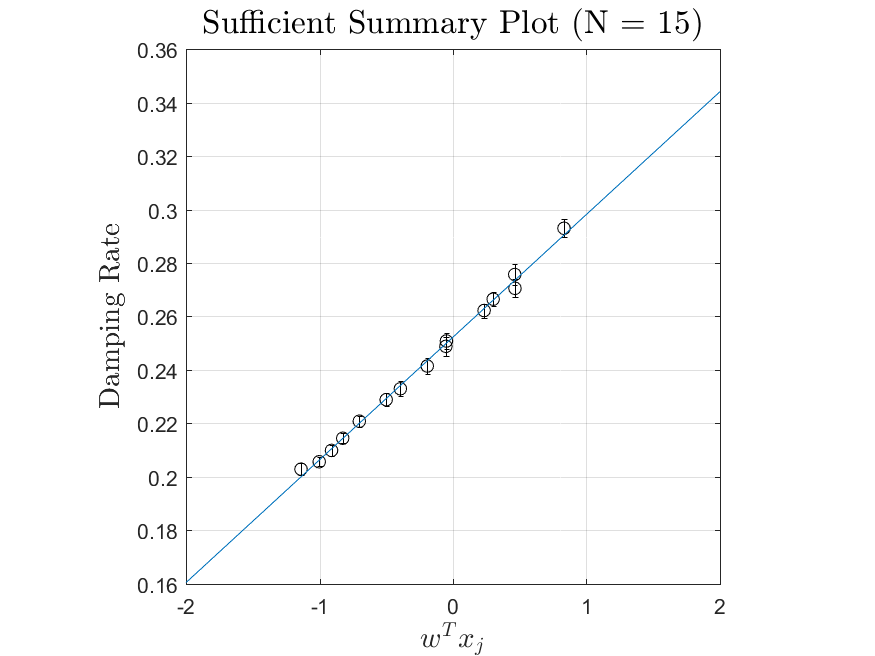
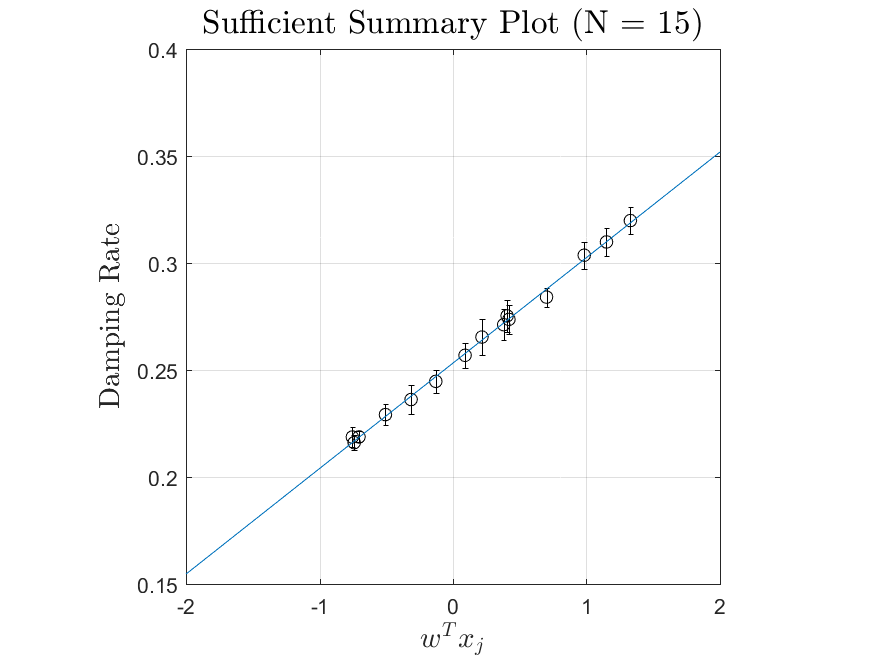
Updated Two-Stream FDG results.

diff --git a/+Sensitivity/FD_Gradient.m b/+Sensitivity/FD_Gradient.m
@@ -90,6 +90,7 @@ function [evalues, U, output, outputplus, Xs, graddamp, sdev, Atrials] = Active_
         
         output(jj) = mean(out);
         sdev(1, jj) = std(out)/sqrt(Atrials(1, jj));
+		clear out;
         
         for kk = 1:Nparams
             % Perturb the previously selected parameters by h
@@ -105,6 +106,7 @@ function [evalues, U, output, outputplus, Xs, graddamp, sdev, Atrials] = Active_
             
             outputplus(kk, jj) = mean(outplus);
             sdev(kk+1, jj) = std(outplus)/sqrt(Atrials(kk+1, jj));
+			clear outplus;
         end
         % Store the FD results in the gradient matrix
         graddamp(:, jj) = (outputplus(:,jj) - output(jj))/h;

diff --git a/Two_Stream_No_Variance/Two_Stream_No_Variance_FDG.m b/Two_Stream_No_Variance/Two_Stream_No_Variance_FDG.m
@@ -14,13 +14,13 @@ max_vals = (1+alpha)*params;
 min_vals = (1-alpha)*params;
 
 DT = 0.01;
-NT = 20/DT+1;
-NG = 32;
-N = 1e3;
+NT = 70/DT+1;
+NG = 128;
+N = 1e4;
 
 PIC = PIC.PIC_setup(DT, NT, NG, N, 'Two_Stream_Basic');
 
-h = 1e-6;
+h = 1e-4;
 Nsamples = 10000;
 
 [evalues, U, output, outputplus, Xs, graddamp, sdev, Atrials] = Sensitivity.FD_Gradient(max_vals, min_vals, h, Nsamples, PIC, 'test_params', change);

diff --git a/Landau_Maxwell/Landau_Maxwell_LF.m b/Landau_Maxwell/Landau_Maxwell_LF.m
@@ -26,7 +26,7 @@ Nsamples = 15;
 
 [w, output, Xs, sdev, Atrials] = Sensitivity.Linear_Fit( ...
     max_vals, min_vals, Nsamples, PIC, 'test_params', change, ...
-    'Averaging', true, 'Atolerance', 5e-4);
+    'Averaging', true, 'Atolerance', 5e-3);
 
 Sensitivity.plotter_Linear_Fit(Nparams, Nsamples, paramNames, QOI, w, output, Xs, sdev)
 

diff --git a/+Sensitivity/Local_Linear.m b/+Sensitivity/Local_Linear.m
@@ -47,7 +47,7 @@ function [evalues, U, output, Xs, Xs2, graddamp, sdev, Atrials] = Local_Linear_M
         
         output(jj) = mean(out);
         sdev(jj) = std(out)/sqrt(Atrials(jj));
-        
+        clear out;
     end
     
     for jj = 1:Nsamples2

diff --git a/+Sensitivity/Linear_Fit.m b/+Sensitivity/Linear_Fit.m
@@ -78,6 +78,7 @@ function [w, output, Xs, sdev, Atrials] = Linear_Fit(max_vals, min_vals, Nsample
         
         output(jj) = mean(out);
         sdev(jj) = std(out)/sqrt(Atrials(jj));
+		clear out;
         
     end
     % Solve the linear system

diff --git a/Two_Stream_No_Variance/Two_Stream_No_Variance_LF.m b/Two_Stream_No_Variance/Two_Stream_No_Variance_LF.m
@@ -14,7 +14,7 @@ max_vals = (1+alpha)*params;
 min_vals = (1-alpha)*params;
 
 DT = 0.01;
-NT = 20/DT+1;
+NT = 70/DT+1;
 NG = 128;
 N = 1e4;
 
